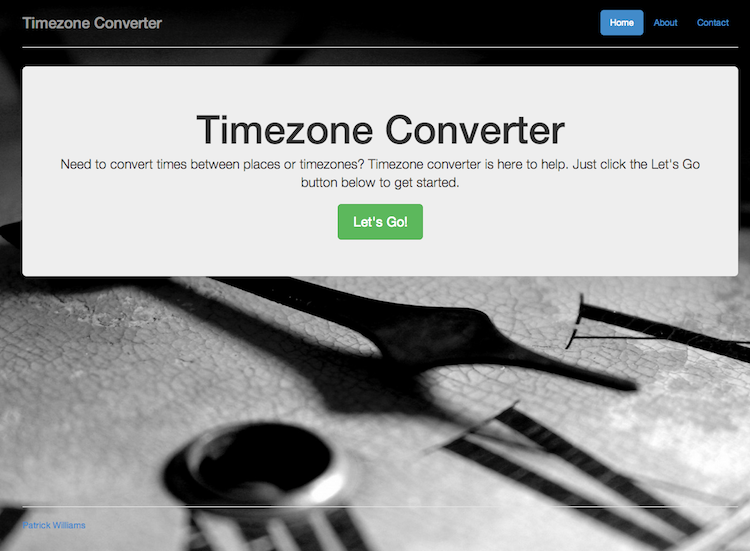
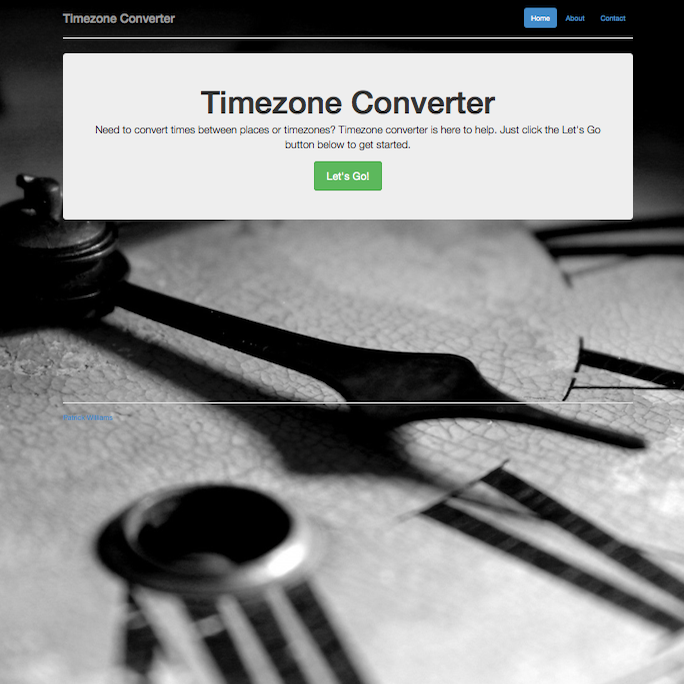
mobile desktop styling fixes

diff --git a/index.html b/index.html
@@ -15,18 +15,20 @@
     <style>
         body {margin-top: 60px;font-family: 'Sintony', sans-serif;background: url("images/background.png");}
         .navbar{font-family: 'Carme', sans-serif; text-align: center; background: url("images/navbackground.png"); margin-bottom: 0;}
-        .navbar-brand{font-size: 19px; margin-left: 0 !important; padding: 5px 0;}
+        .navbar-brand{color: #CEBB9A !important;font-size: 19px; margin-left: 0 !important; padding: 5px 0;}
+         .brand{color: #CEBB9A !important;font-size: 19px; margin-left: 0 !important; padding: 5px 0;}
+         .brand:hover{text-decoration: none;}
         .navbar-header{width: 100%; text-align: center;}
         .navbar-nav li{float:none;display:inline-block; vertical-align: top;}
          .navbar-nav {float:none;display:inline-block; vertical-align: top; margin-right: 15px;}
         .collapse{clear: both;}
-        .down-arrow{font-size: 50px; position: fixed; top: -19px; width: 100%; text-align: center; z-index: 999;}
+        .down-arrow{font-size: 50px; position: fixed; top: -19px; width: 100%; text-align: center; z-index: 999; color: black;}
         @media (min-width: 768px){.navbar-brand{width:100%;text-align:center;}}
-        @media (max-width: 768px){.navbar-brand{padding: 15px 10px;}}
+        @media (max-width: 768px){.navbar-brand{padding: 15px 10px;}.navbar-nav{font-size: 13px;}.carousel{width: 100%;}}
         .center{text-align: center;}
         #projects-carousel{margin-bottom: 205px;}
         #about{margin-top: 35px;}
-        .icon{height: 50px; width: 50px; margin: 0 10px;}
+        .icon{height: 50px; width: 50px; margin: 10px 10px;}
         #contact{font-family: 'Carme', sans-serif;}
 	</style>
 
@@ -37,20 +39,21 @@
     <nav class="navbar navbar-inverse navbar-fixed-top" role="navigation">
       <div class="container">
         <div class="navbar-header">
-           <button type="button" class="navbar-toggle" data-toggle="collapse" data-target=".navbar-ex1-collapse">
+           <button id='navibutton' type="button" class="navbar-toggle" data-toggle="collapse" data-target=".navbar-ex1-collapse">
             <span class="sr-only">Toggle navigation</span>
             <span class="icon-bar"></span>
             <span class="icon-bar"></span>
             <span class="icon-bar"></span>
           </button>
-          <a class="navbar-brand" href="index.html">ptkwilliams</a>
+          <div class="navbar-brand"><a class="brand" href="index.html">ptkwilliams</a></div>
         </div>
         <div class="collapse navbar-collapse navbar-ex1-collapse">
           <ul class="nav navbar-nav">
             <li><a href="http://blog.ptkwilliams.com">Blog</a></li>
-            <li><a href="#projects-carousel">Projects</a></li>
-            <li><a href="#contact">Contact</a></li>
-            <li><a href="#about">About</a></li>
+            <li id='aboutLi'><a id='aboutAnchor' href="#about">About</a></li>
+            <li><a id='projectsAnchor' href="#projects-carousel">Projects</a></li>
+            <li><a id='contactAnchor' href="#contact">Contact</a></li>
+            
           </ul>
         </div><!-- /.navbar-collapse -->
       </div><!-- /.container -->
@@ -62,8 +65,8 @@
       <div id="about" class="row center">
         <div class="col-lg-12">
           <h3>About</h3>
-          <p>Hi! I'm Patrick Williams. Welcome to ptkwilliams.com! I'm a web developer living in Austin Texas.<br>
-          Take a look at what I'm working on, check out my blog, or shoot me a note and say hello. <br><br><span style="color: red;">This site is currently under construction.</span></p>
+          <p>Hi! I'm Patrick Williams. Welcome to ptkwilliams.com! <br><br>I'm a web developer living in Austin Texas.<br>
+          Take a look at what I'm working on, check out my blog, or shoot me a note and say hello. </p>
         </div>
       </div>
 
@@ -88,13 +91,13 @@
 <div id="projects-carousel" class="carousel slide"><!-- class of slide for animation -->
   <div class="carousel-inner">
     <div class="item active"><!-- class of active since it's the first item -->
-      <a href="http://timezone.ptkwilliams.com"><img src="images/carousel/timezone_preview.png" alt="" /></a>
+      <a href="http://timezone.ptkwilliams.com"><img id="timezoneImage" src="images/carousel/timezone_preview.png" alt="" /></a>
       <div class="carousel-caption">
         <p>Timezone Converter</p>
       </div>
     </div>
     <div class="item">
-      <a href='http://bcc.ptkwilliams.com'><img src="images/carousel/bcc_preview.png" alt="" /></a>
+      <a href='http://bcc.ptkwilliams.com'><img id="bccImage" src="images/carousel/bcc_preview.png" alt="" /></a>
       <div class="carousel-caption">
         <p>Best Buy Competitor Comparer</p>
       </div>
@@ -119,6 +122,7 @@
       $(document).ready(function () {
         if(window.innerWidth > 768){
   $('.navbar').css('display','none');
+
   
   
 
@@ -138,7 +142,13 @@ var navbarItems = document.getElementsByClassName('navbar-nav')[0].children;
  // navbarItems[i].onclick = function(){window.scrollBy(0,300);};
 });
       if(window.innerWidth < 768){
+        var carouselwidth = $('.carousel').width();
         $('.down-arrow').css('display','none');
+        $('.carousel').css('height',carouselwidth);
+        $('#timezoneImage').attr('src','images/carousel/timezonemobile.png');
+        $('#bccImage').attr('src','images/carousel/bccmobile.png');
+
+document.getElementById('aboutLi').onclick = function(){document.getElementById('navibutton').click();};
       }
       var windowHeight = window.innerHeight;
       var aboutHeight = document.getElementById('about').clientHeight;
@@ -148,10 +158,30 @@ var navbarItems = document.getElementsByClassName('navbar-nav')[0].children;
 
 var currentAnchor = window.location.hash; 
   $(window).on('hashchange', function() {
-      if((window.location.hash!= '#projects-carousel') && (window.location.hash != currentAnchor)){
-    window.scrollBy(0,-300);
+    var scrollAmount = windowHeight/-3;
+      if((window.location.hash=== '#contact')){
+        window.scrollBy(0,scrollAmount);
+        $('#contactAnchor').attr('href','javascript:;');
+        $('#aboutAnchor').attr('href', '#about');
+        $('#projectsAnchor').attr('href', '#projects-carousel');
+          } else if(window.location.hash === '#about'){
+              window.scrollBy(0,-200); //scroll to top
+              $('#aboutAnchor').attr('href', 'javascript:;');
+              $('#contactAnchor').attr('href','#contact');
+              $('#projectsAnchor').attr('href', '#projects-carousel');
+            } else if (window.location.hash === '#projects-carousel' && windowHeight < 768){
+              window.scrollBy(0,-100);
+              $('#projectsAnchor').attr('href', 'javascript:;');
+              $('#contactAnchor').attr('href','#contact');
+              $('#aboutAnchor').attr('href', '#about');
+            }
 
-}
+            else {    
+              $('#contactAnchor').attr('href','#contact');
+              $('#aboutAnchor').attr('href', '#about');
+              $('#projectsAnchor').attr('href', '#projects-carousel');
+          }
+
     currentAnchor = window.location.hash;
 });
 
